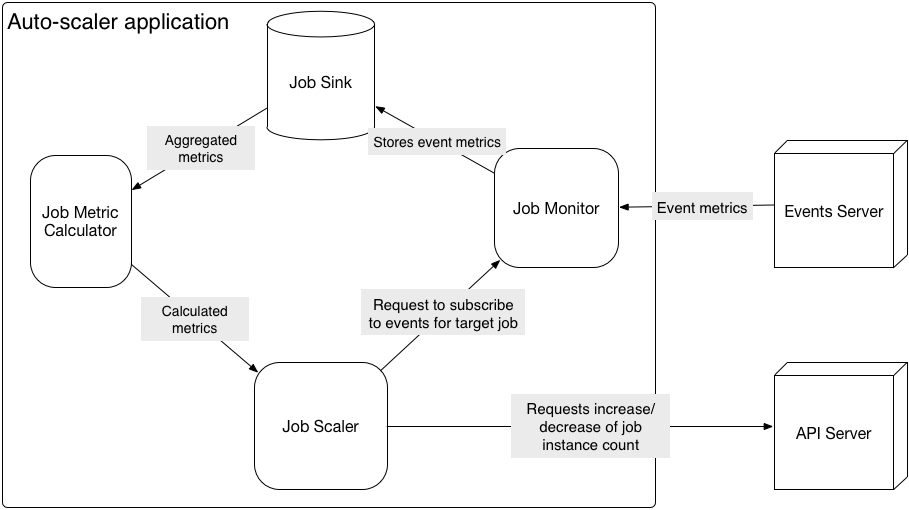
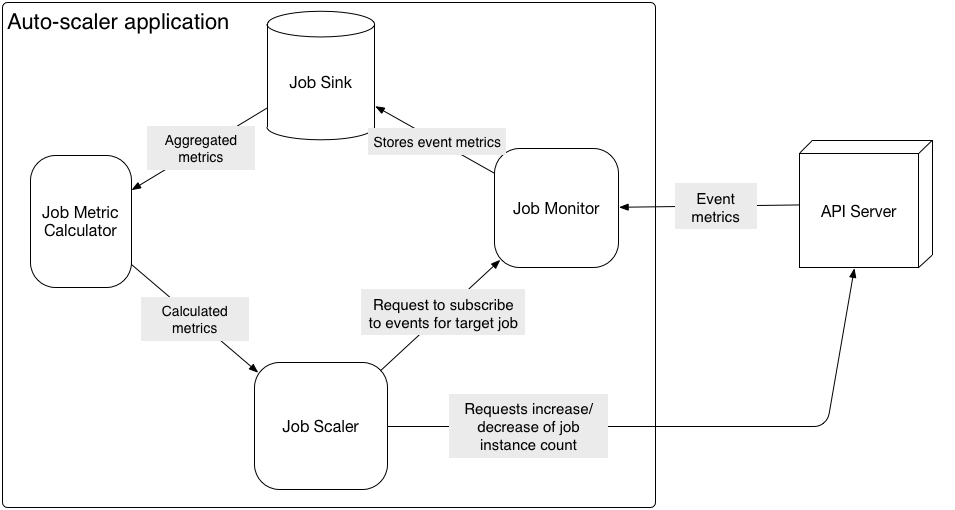
Addressed review feedback. Updated architecture diagram.

diff --git a/apcera-job-scaler/README.md b/apcera-job-scaler/README.md
@@ -1,7 +1,7 @@
 ## Apcera Job Auto-scaler Application
 
 The Apcera Job Auto-scaler application demonstrates how to monitor, analyze and scale the number of running instances of another job based on that job's CPU usage. The auto-scaler uses the uses the [Events System API](http://docs.apcera.com/api/events-system-api/) to subscribe to a stream of resource usage metrics for a target job you specify by FQN. The auto-scaler app collects and stores usage CPU metrics over a time window you specify and computes the average CPU usage across all job instances.
-If the computed CPU usage rises above (or falls below) a percentage of the total available CPU that you specify, the auto-scaler uses the [Apcera REST API](https://docs.apcera.com/api/apcera-api-endpoints/#put-v1jobsuuid) to increase (or decrease) the number of job instances, as necessary.
+If the computed CPU usage rises above (or falls below) a percentage of the total available CPU that you specify, the auto-scaler uses the [Apcera REST API](https://docs.apcera.com/api/apcera-api-endpoints/#put-v1jobsuuid) to increase or decrease the number of job instances, as necessary.
 
 The auto-scaler application has been tested to work with Apcera Platform version 2.4.0 and above.
 
@@ -17,9 +17,44 @@ At the end of the time period specified by the `$SCALING_FREQ` environment varia
 
 Logs from the auto-scaler app are forwarded to **stderr**.
 
+## Requirements
+
+To use the auto-scaler application the following conditions must be met:
+
+* [Policy](#requiredpolicy) must exist that issues an app token to the auto-scaler, and gives it permission to read/update properties of the target application.
+* [CPU reservation](#cpureserve) must be set on the target application to monitor.
+
+### Required policy
+
+For the auto-scaler to function you must add policy to your cluster that issues an application token to the auto-scaler application, and that permits the auto-scaler to read and update properties on the target job. To do this you must have permissions to add/edit policy on your cluster (see [Policy authoring permissions](http://docs.apcera.com/policy/permissions/#policy-authoring-permissions)).
+
+For example, suppose you've deployed the auto-scaler to `job::/sandbox/admin::apcera-job-scaler` and it is [configured](#options) to monitor the application at `job::/prod::my-app`. In this case, the following policy would be required:
+
+    // Permit token to be issued to job-scaler app
+    on job::/sandbox/admin::apcera-job-scaler {
+        {permit issue}
+    }
+
+    // Permit job-scaler app to read and update properties of the target app
+    on job::/prod::my-app {
+        if (auth_server@apcera.me->name == "job::/sandbox/admin::apcera-job-scaler") {
+            permit read, update
+        }
+    }
+
+### Setting CPU reservation on target job {#cpureserve}
+
+For the auto-scaler calculate CPU usage, you must assign a CPU reservation to the app you want to monitor. (By default, applications are provided with unlimited CPU time.) For example, the following command creates a new application and reserves 200 milliseconds of CPU time per second of physical time for the target app:
+
+    apc app create my-app --cpus 200
+
+Or to update an existing job's CPU reservation:
+
+    apc app update my-app --cpus 200
+
 ## Configuring and deploying the Auto-scaler {#options}
 
-The auto-scaler app's behavior is configured by the following environment variables that you set on the application.
+The auto-scaler app's behavior is configured by the following environment variables that it reads from its enviroinment.
 
 | Environment variable name | Description                                                                                                           | Default value |
 | ------------------------- | --------------------------------------------------------------------------------------------------------------------- | ------------- |
@@ -37,7 +72,7 @@ The easy way to deploy and configure the auto-scaler is with the provided applic
     # App Environment Variables;
     env {
        "API_ENDPOINT": "api.<cluster.domain>",
-       "TARGET_JOB": "job::/<your>/<namespace>::example-go",
+       "TARGET_JOB": "job::/<your>/<namespace>::<your-app>",
        "SCALING_FREQ": "30",
        "CPU_ROOF": "80",
        "CPU_FLOOR": "20",
@@ -52,33 +87,13 @@ Make the following changes to the environment variables:
 * Set the `TARGET_JOB` to the FQN of the example-go app you deployed previously (`job::/sandbox/admin::example-go`, for example). You **must** set a CPU reservation on the target job for the auto-scaler to compute CPU usage. See [Setting CPU reservation](#cpureserve).
 * Leave the other [configuration options](#options) at their default values, or set them to the desired values.
 
-Deploy the app using your modified app manifest:
+Run the `apc app create` command to deploy the auto-scalcer using the modified app manifest run
 
+    cd sample-apps/apcera-job-scaler
     apc app create
 
-You also need to add policy to permit the auto-scaler to make authenticated API calls to read and update properties on `TARGET_JOB`. See [Required policy](#requiredpolicy).
+You also need to add policy to permit the auto-scaler to make authenticated API calls to read and update properties on `TARGET_JOB`. See [Required policy]().
 
-### Required policy
-
-You must also add policy to your cluster that issues an application token to the auto-scaler application, and that also permits the auto-scaler app to read and update properties on the target job. For example, suppose you've deployed the auto-scaler to `job::/sandbox/admin::apcera-job-scaler`, and it is configured to monitor the application at `job::/prod::my-app`. In this case, you would need the following policy that permits a token to be issued to the auto-scaler app:
-
-    on job::/sandbox/admin::apcera-job-scaler {
-        {permit issue}
-    }
-
-Also, you must add policy that gives the auto-scaler app permission to read and update properties on the target job, for example:
-
-    on job::/prod::my-app {
-        if (auth_server@apcera.me->name == "job::/sandbox/admin::apcera-job-scaler") {
-            permit read, update
-        }
-    }
-
-### Setting CPU reservation on target job {#cpureserve}
-
-For the auto-scaler app to calculate an instance's CPU usage you must assign an explicit CPU reservation to the app you want to monitor. (By default, applications on Apcera are provided with unlimited CPU time.) For example, the following command creates a new application and reserves 200 milliseconds of CPU time per second of physical time for the target app:
-
-    apc app create app-to-monitor --cpus 200
 
 ## Auto-scaler application design
 
@@ -86,18 +101,18 @@ The auto-scaler application is composed of the following components: Job Monitor
 
 * Job Monitor -- Subscribes to events for the target job using the [Apcera Events System API](https://docs.apcera.com/api/events-system-api/). It saves metric event records to the Job Sink.
 * Job Sink -- Stores and aggregates the metric data obtained for the target job for the latest time window specified by the `$SCALING_FREQ` parameter.
-* Job Metric Calculator -- Acts as decorator to the information being stored in Job Sink. It provides the algorithms for calculating resource utilization summaries for requested jobs. Currently, it only calculates CPU usage.
+* Job Metric Calculator -- Acts as decorator to the information begin stored in Job Sink. It provides the algorithms for calculating resource utilization summaries for requested jobs. Currently, it only calculates CPU usage.
 * Job Scaler -- Provides the primary application logic for scaling the target job's instance count up or down.
 
 ![scaler](architecture.png)
 
 ## Tutorial
 
-This tutorial shows how to configure the auto-scaler app to monitor another application. For the target app to monitor, you'll deploy a simple Go app (example-go) that waits for incoming HTTP requests on a port and returns a string. You'll then deploy an instance of the auto-scaler app that's configured to monitor and scale the Go app.
+This tutorial shows how to configure the auto-scaler app to monitor another application. For the target app to monitor, you'll deploy a simple Go app that listens for incoming HTTP requests on a port and returns a string. You'll then deploy an instance of the auto-scaler app that's configured to monitor and scale the Go app.
 
-When the target app is not handling any HTTP requests its CPU usage will be negligible, and the auto-scaler will fall below the `$CPU_FLOOR` configuration parameter. In response, the auto-scaler will reduce the number of app instances instances after each scaling period until the `$MIN_INSTANCES` count is reached.
+When the target app is not handling any HTTP requests its CPU usage will be negligible, and the auto-scaler will fall below the value specified by the `$CPU_FLOOR` configuration parameter. In response, the auto-scaler will reduce the number of app instances after each scaling period until the `$MIN_INSTANCES` count is reached.
 
-If the Go app were to receive lots of HTTP requests at once, and the calculated CPU usage increased above the `CPU_ROOF` value, then the number of instances would be increased.
+If the Go app were to receive a spike in HTTP requests, and the calculated CPU usage increased above the `CPU_ROOF` value, then the number of instances would be increased.
 
 **To deploy and configure auto-scaler**:
 
@@ -145,34 +160,15 @@ If the Go app were to receive lots of HTTP requests at once, and the calculated 
 
 5. Add the [required policy](#requiredpolicy) to your cluster. Change the namespaces (`/sandbox/admin` in the example below) to match the one where you deployed the `apcera-job-scaler` and `example-go` apps:
 
-        // Permit token to be issued to job-scaler app
         on job::/sandbox/admin::apcera-job-scaler {
             {permit issue}
         }
 
-        // Permit job-scaler app to read and update the target app's FQN
         on job::/sandbox/admin::example-go {
             if (auth_server@apcera.me->name == "job::/sandbox/admin::apcera-job-scaler") {
                 permit read, update
             }
         }
-
-5. Start the auto-scaler application. Note that the auto-scaler logs its configuration settings to STDOUT:
-
-        apc app start apcera-job-scaler
-
-        Starting job... done
-        Waiting for the job to start...
-        [stderr][63c17f0a] 2016/12/19 22:57:06 Enabling job::/sandbox/admin::example-go for auto scaling
-        [stdout][63c17f0a] Scaling Job Config set...
-        [stdout][63c17f0a] FQN:  job::/sandbox/admin::example-go
-        [stdout][63c17f0a] Scaling Frequency:  30s
-        [stdout][63c17f0a] Lower CPU limit:  20
-        [stdout][63c17f0a] Upper CPU limit:  80
-        [stdout][63c17f0a] Minimum Instance limit:  1
-        [stdout][63c17f0a] Maximum Instance limit:  20
-        [stdout][63c17f0a] No. of Instances to be added/removed when scaling behavior triggered:  1
-        Success!
 
 6. View the auto-scaler logs using APC or the Web Console:
 
@@ -213,7 +209,7 @@ If the Go app were to receive lots of HTTP requests at once, and the calculated 
         [stderr][b44ca45d] 2016/12/19 23:08:13 Minimum number of instances that could be scaled down to is  1
 
 
-    Conversely, if something caused the target app's CPU usage to increase above 80% (our specified `$CPU_ROOF` value) then the auto-scaler would being to increase the number of instances in the same manner.
+    Conversely, if something caused the target app's CPU usage to increase above 80% (our specified `$CPU_ROOF` value) then the auto-scaler would begin to increase the number of instances in the same manner.
 
         [stderr] 2016/12/20 00:29:57 Total of 1 metrics gathered for instance c3b19d8a-8989-4ff2-82c8-c9d3b6b39a70 of Job job::/sandbox/admin::example-go in the current window.
         [stderr] 2016/12/20 00:30:07 Total of 2 metrics gathered for instance c3b19d8a-8989-4ff2-82c8-c9d3b6b39a70 of Job job::/sandbox/admin::example-go in the current window.
@@ -232,7 +228,7 @@ If the Go app were to receive lots of HTTP requests at once, and the calculated 
 
 Below are some common issues you may encounter when deploying or using the auto-scaler app.
 
-* **"Job metrics not reported yet."** -- This message appears if you didn't add policy to allow the auto-scaler app to read and update the target job's properties. See [Required Policy](#requiredpolicy). Also, make sure you started the target app.
 * **"Failed joining the Event Server realm %!!(MISSING)(EXTRA string=com.apcera.api"** -- This error occurs if your cluster is missing policy that issues an API token to the auto-scaler app. See [Required Policy](#requiredpolicy).
+* **"Job metrics not reported yet."** -- This message appears if you didn't add policy to allow the auto-scaler app to read and update the target job's properties. See [Required Policy](#requiredpolicy). Also make sure the target app is running.
 
 
